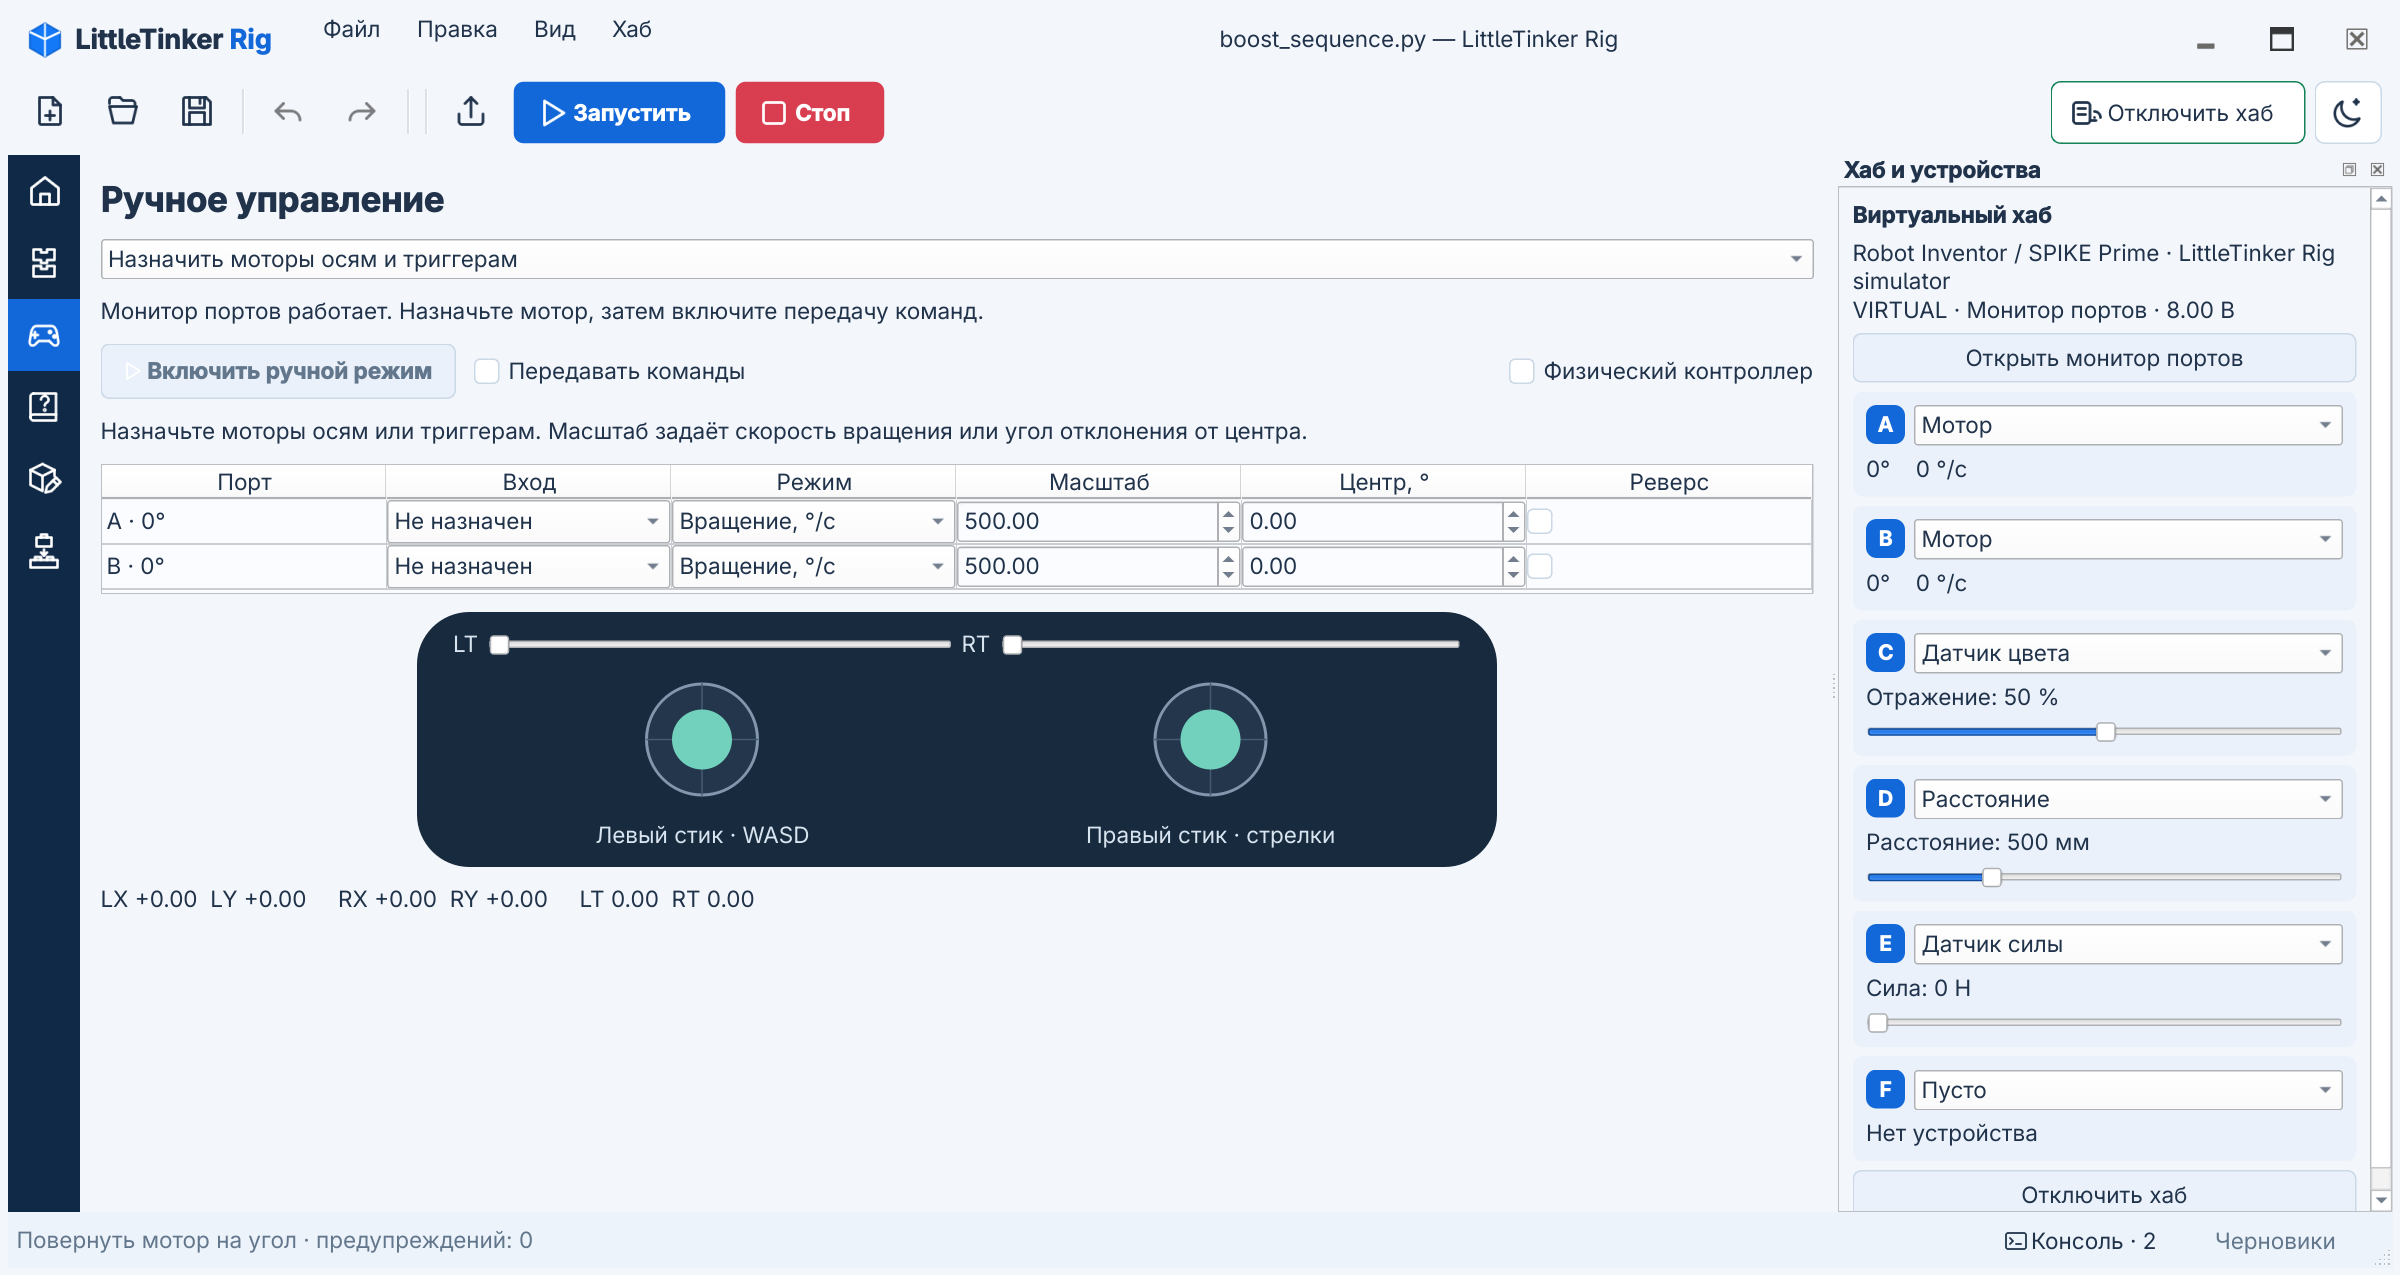
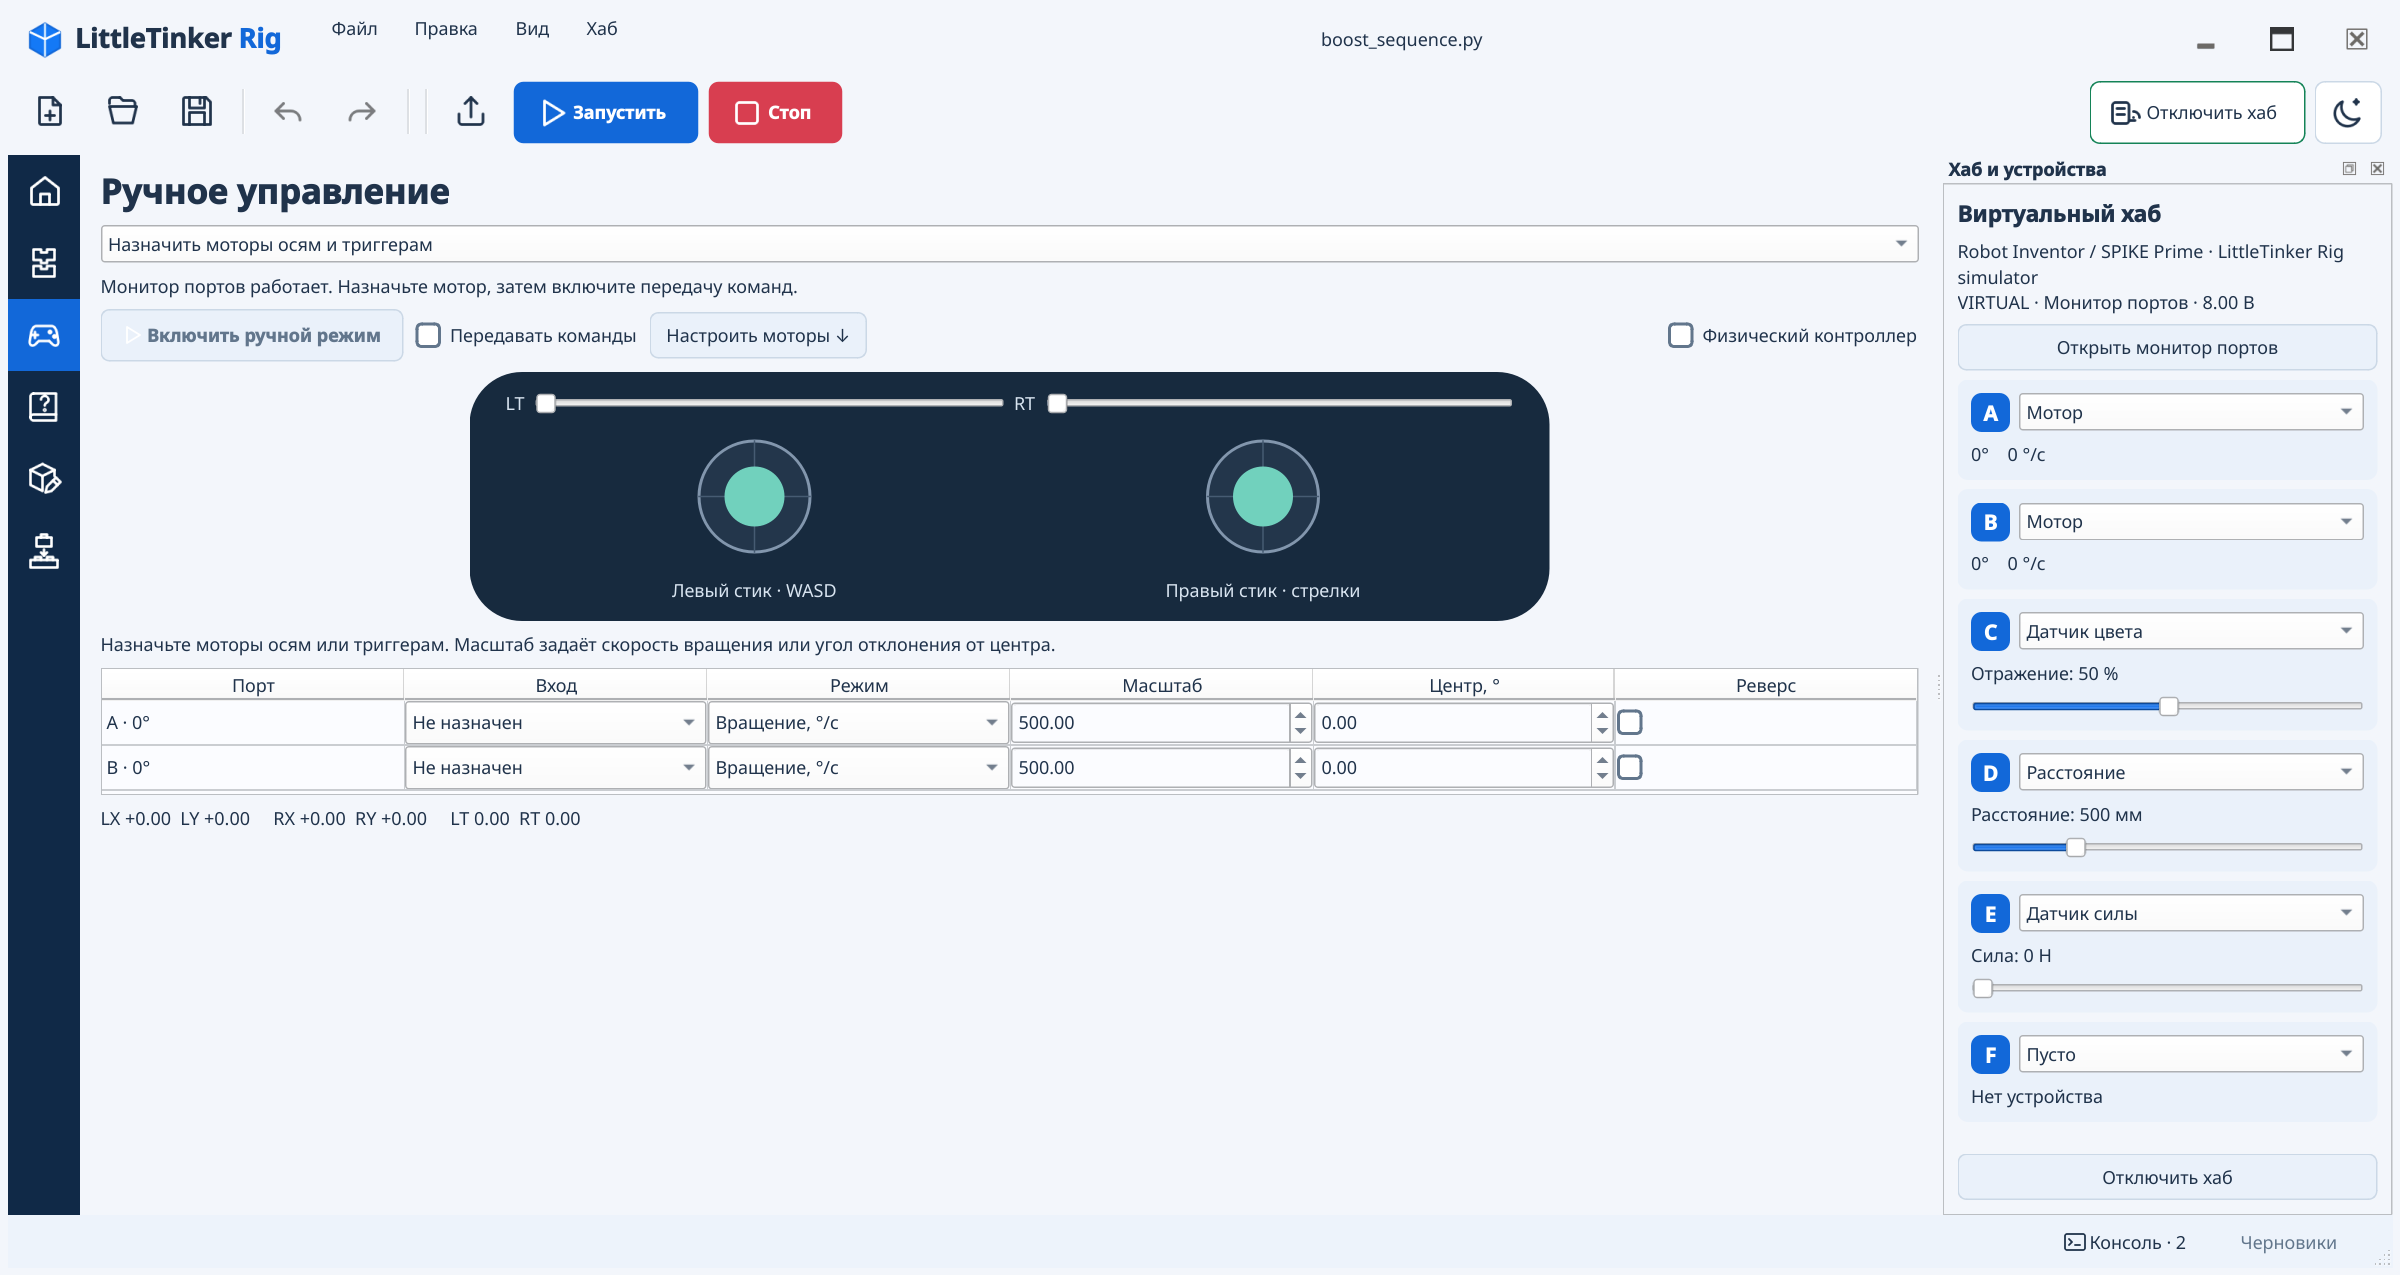
Improve checkbox contrast across themes

diff --git a/little_tinker_rig/qt/theme.py b/little_tinker_rig/qt/theme.py
@@ -359,11 +359,15 @@ def studio_stylesheet(name):
         QPushButton#manualStart:hover, QPushButton#manualConnect:hover, QPushButton#blockEditorNew:hover, QPushButton#assemblyRetry:hover {{ background: {c['focus']}; }}
         QPushButton#manualStart:disabled, QPushButton#manualConnect:disabled, QPushButton#blockEditorNew:disabled, QPushButton#assemblyRetry:disabled {{ background: {c['raised']};
             color: {c['muted']}; border-color: {c['border']}; }}
-        QCheckBox::indicator:unchecked {{ width: 15px; height: 15px;
+        QCheckBox {{ border: 1px solid transparent; border-radius: 4px; }}
+        QCheckBox:focus {{ border-color: {c['focus']}; }}
+        QCheckBox::indicator:unchecked {{ width: 13px; height: 13px;
                                          background: {c['panel']};
-                                         border: 1px solid {c['border']};
+                                         border: 2px solid {c['muted']};
                                          border-radius: 4px; }}
         QCheckBox::indicator:unchecked:hover {{ border-color: {c['focus']}; }}
+        QCheckBox::indicator:unchecked:disabled {{
+            background: {c['raised']}; border-color: {c['border']}; }}
         QMenuBar {{ background: transparent; color: {c['text']}; }}
         QMenuBar::item {{ padding: 6px 9px; }}
         QMenuBar::item:selected {{ background: {c['hover']}; border-radius: 5px; }}
